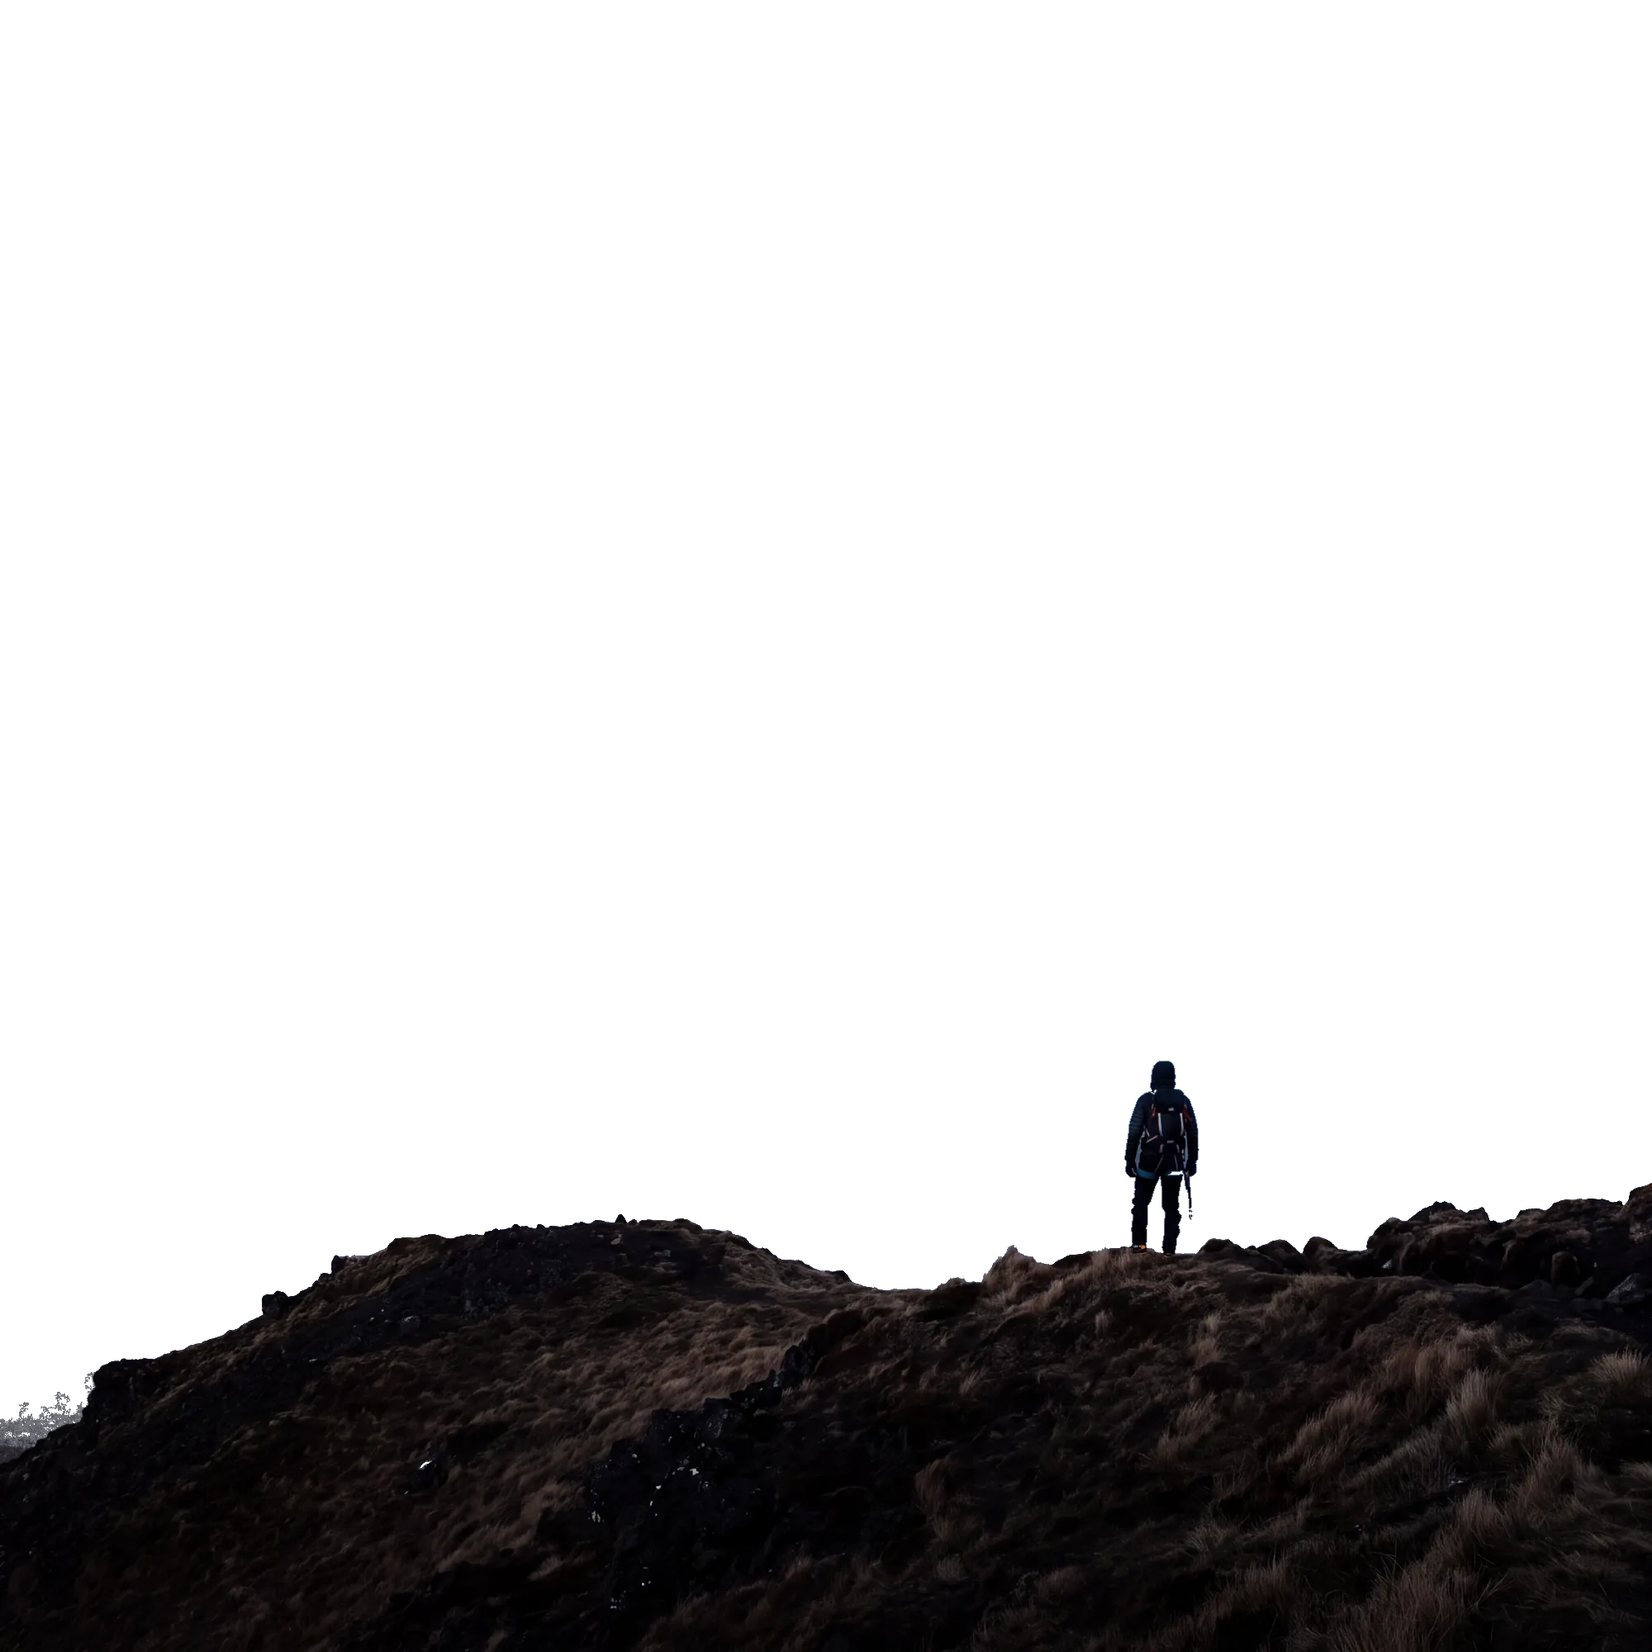
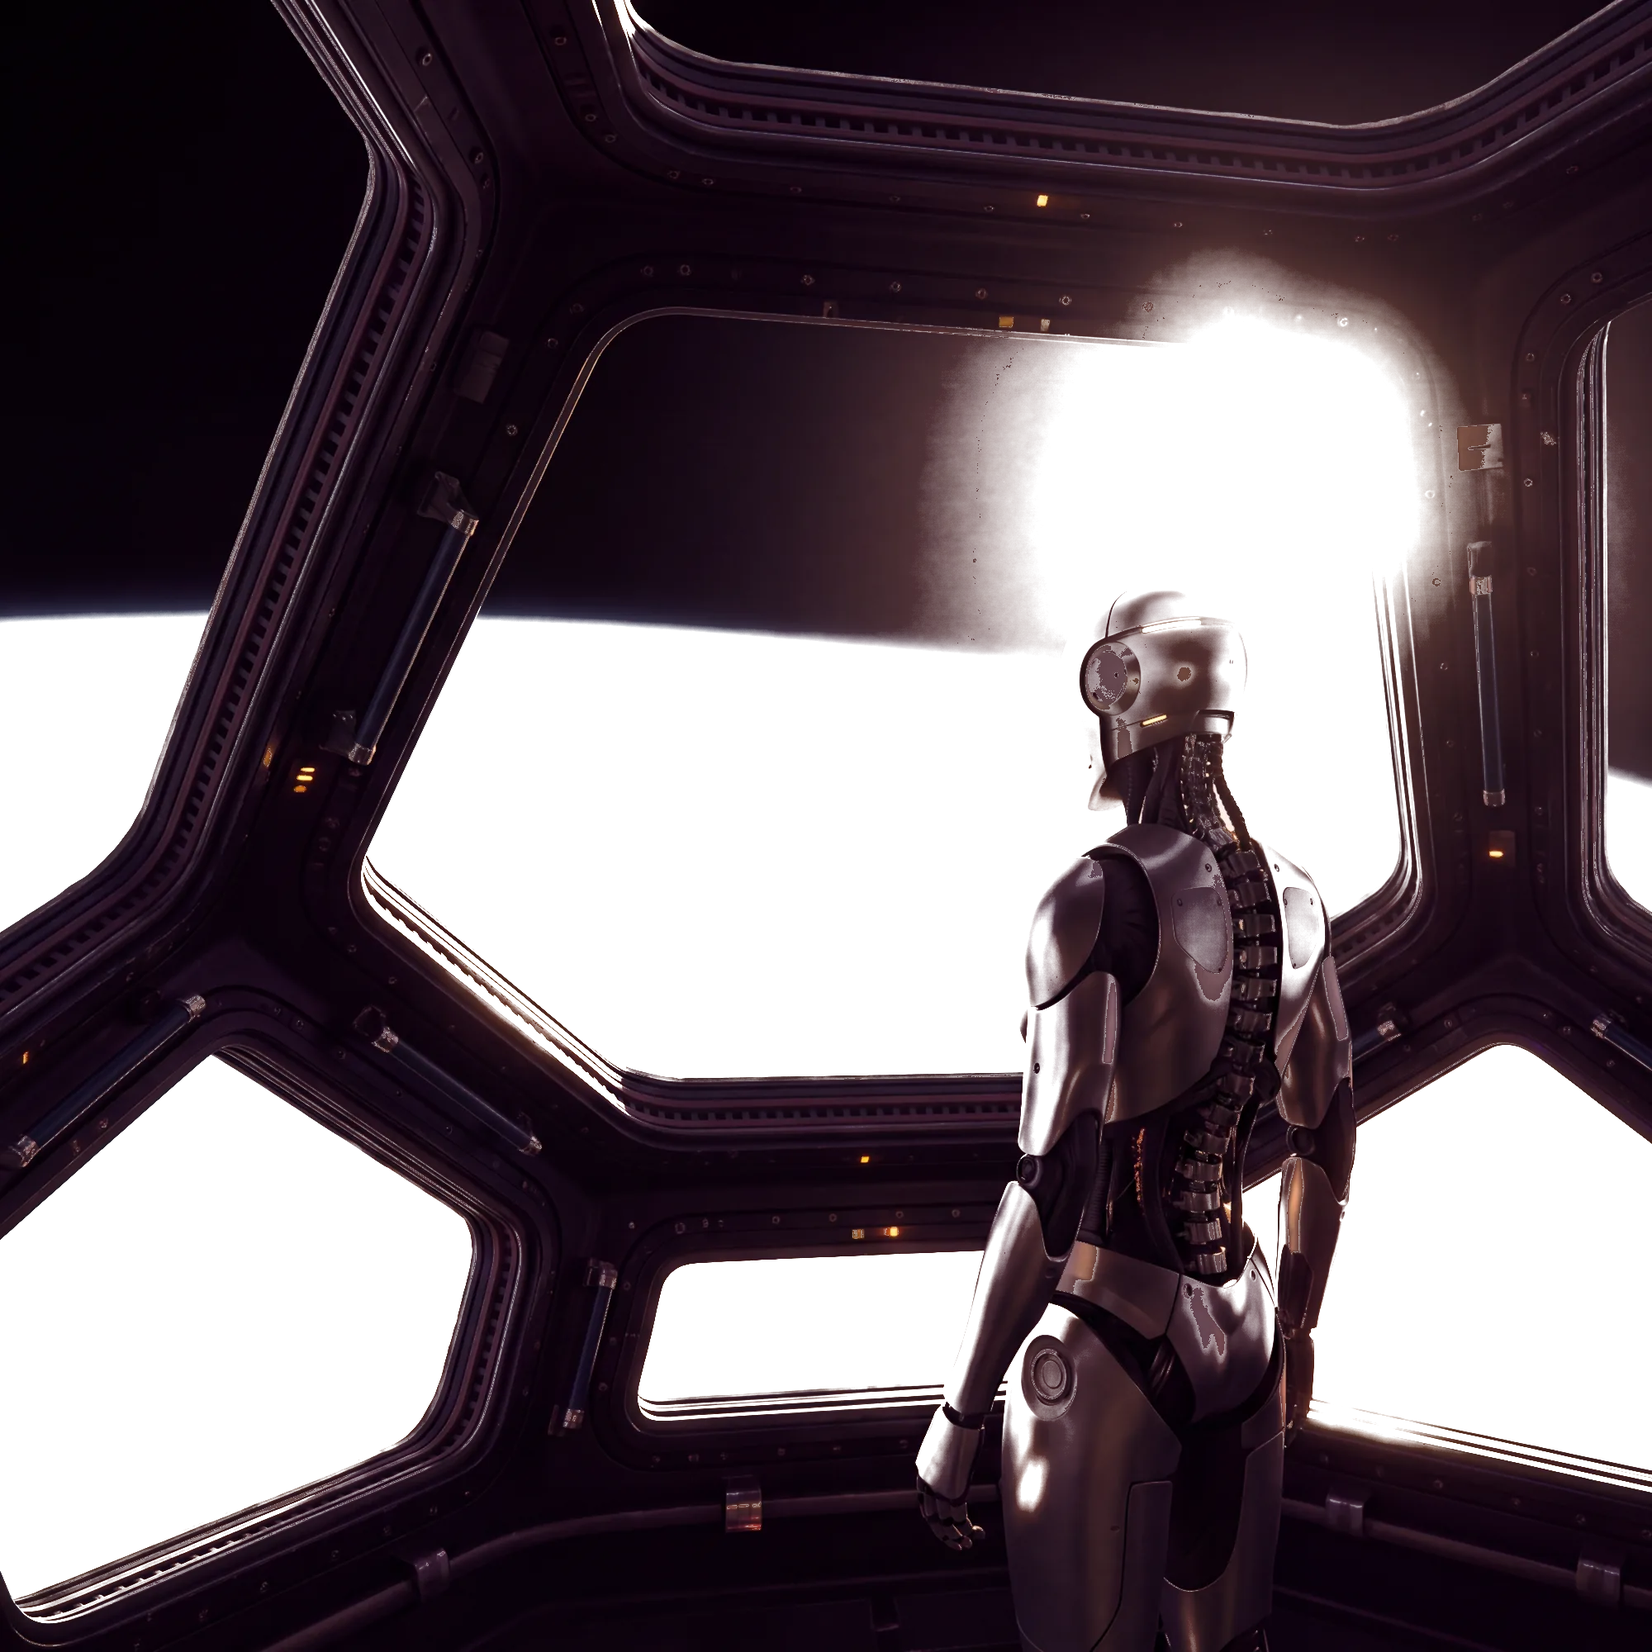
The hero is a cupola over the Gulf, and the line carries its own ground
The mountain's successor did not pass the team and the brief that came
back was that the hero has to read as AI on sight. This is that: a robot
at the glass of an orbital observation deck, the Palm and the coastline
on the limb below, one sun in the upper right window. Generated for this
page, 4096 square, served from our own origin at 528KB for the pair.

THE CUT IS ON PLAIN LUMINANCE AND THAT IS THE GIFT. Measured over the
frame: 61.4 per cent under 50, 8.5 per cent between 50 and 89, 30.1 per
cent over 90. Two modes with a valley between them, so one threshold
separates the structure from the view and the alpha ramps across 55 to
92. The mountain had no such line - snow, sky and haze overlapped there,
the cut had to be made on blue minus red, and the mid plane could not be
cut at all.

Black space stays with the near plate, because no rule separates it from
the frame and it costs nothing: black sliding over black is not visible.
Small holes are closed and large ones are not - rivets, seals, lamps and
the light on the robot's shoulder belong to the near plate, the windows
are the view - capped by area at 2600px, 1813 pockets, 32870 pixels.

THE SUN WAS MEASURED, NOT PLACED. Largest connected blob over luminance
240: 4,528 pixels in a 76 by 78 box, centroid (0.7662, 0.2929). The
mountain's was 1,733 pixels 22 across at (0.6653, 0.3041), so the hinge
has barely moved and the orbital chapter still enters on the pixel the
light is at.
[…]

diff --git a/src/components/hub/parallaxAssets.ts b/src/components/hub/parallaxAssets.ts
@@ -1,37 +1,57 @@
 /** The parallax layer artwork, in one place.
  *
- *  OURS NOW, AND ON OUR OWN ORIGIN. These were the demo photographs that ship
- *  with @osmosupply/parallax-scrolling, served from 21st.dev's CDN: not ours to
- *  serve, on somebody else's host, on a live page. They are replaced by art
- *  generated for this page and served from /public, which is the last thing
- *  that had to happen before this hero could be called finished.
+ *  OURS, AND ON OUR OWN ORIGIN. Generated for this page and served from
+ *  /public. The originals that shipped with the parallax component were
+ *  photographs on 21st.dev's CDN: not ours to serve, on somebody else's host,
+ *  on a live page.
  *
- *  TWO PLATES, AND THERE WERE THREE. The originals were back, mid and front,
- *  the mid carrying the mountain at its own rate between the sky and the near
- *  ground. A middle plate needs a matte cut along the mountain's own silhouette,
- *  and in this picture that boundary cannot be found by rule: the snow is
- *  bright and warm, the sky behind it is bright and neutral, and the haze below
- *  it is dark and blue, so every threshold that separates two of them merges the
- *  third. The nearest clean line runs almost horizontally at 0.51 of the frame,
- *  straight through the mountain, and a plate cut there would tear the mountain
- *  in half and slide the pieces against each other.
+ *  THE PICTURE IS A CUPOLA OVER THE GULF, and it replaced a mountain on
+ *  2026-09-11. The team would not take the mountain's successor, an airlock
+ *  film; the brief that came back was that the hero has to read as AI on sight.
+ *  So: a robot at the glass of an orbital observation deck, the Palm and the
+ *  coastline on the limb below, one sun in the upper right window. The
+ *  mountain is tagged `hero/mountain-ascent` and comes back in one checkout.
  *
- *  So the front plate is cut and the mountain stays with the sky. The spread is
- *  unchanged, 70 against 10, which is what the eye reads as depth; what is lost
- *  is one intermediate step. A proper mid matte wants a segmentation pass or ten
- *  minutes in Photoshop, and can be dropped in here without touching anything
- *  else.
+ *  THE CUT IS ON PLAIN LUMINANCE, AND THAT IS THE GIFT THIS PICTURE GIVES.
+ *  Measured over the frame: 61.4 per cent of it under luminance 50, 8.5 per
+ *  cent between 50 and 89, 30.1 per cent over 90. Two modes with a valley
+ *  between them - the structure and the black space are the first, the view
+ *  through the glass is the second - so one threshold separates them and the
+ *  alpha ramps across 55 to 92, which is the valley. The mountain had no such
+ *  line: snow, sky and haze all overlapped in luminance there, the cut had to
+ *  be made on blue minus red, and the middle plane could not be cut at all.
  *
- *  THE FRONT PLATE IS CUT ON BLUE MINUS RED, not on luminance. The near ground
- *  is lit tussock and dark rock, warm and mixed, and the haze behind it is
- *  uniformly blue: measured across the frame the ridge sits between -6 and +7
- *  and the haze between +25 and +78, which is a gap nothing else on that line
- *  falls into. The alpha ramps across 6 to 24 of that difference, so the
- *  silhouette is anti-aliased rather than stepped, and only the one connected
- *  region that reaches the bottom edge is kept, which is the ridge with the
- *  climber standing on it. */
+ *  BLACK SPACE STAYS WITH THE NEAR PLATE and that is not a mistake. Space is
+ *  as dark as the frame and no rule separates them, so the threshold takes
+ *  both. It costs nothing: the pixels are black, they are black in the far
+ *  plate too, and black sliding over black is not a thing anyone can see.
+ *
+ *  SMALL HOLES ARE CLOSED, LARGE ONES ARE NOT. Rivets, seal highlights, the
+ *  indicator lamps and the light catching the robot's shoulder all read as
+ *  view and all belong to the near plate; the windows read as view and are the
+ *  view. The fill is capped by area at 2600px, and the smallest window is far
+ *  larger than the largest of the others. 1813 pockets closed, 32870 pixels.
+ *
+ *  THE NEAR PLATE IS 66 PER CENT OF THE FRAME, which is the one hard
+ *  consequence. The mountain's was 24, so the opening line could sit behind it
+ *  and be occluded by the climber, which was the effect. Behind this one the
+ *  line does not paint at all - measured at 390x844, laid out at top 347 and
+ *  278 wide, at full opacity, with not a letter on screen. The line is over
+ *  the near plate now and carries its own ground instead. See hub/Ascent.
+ *
+ *  AND THE SPREAD IS 8, WHERE THE MOUNTAIN'S WAS 60. Two hills can slide a
+ *  long way past each other and still read as hills. A window cannot: the far
+ *  plate carries its own copy of the frame and the robot, so past about 160
+ *  plate pixels of travel the robot doubles and the openings collapse. It was
+ *  simulated at 0, 60, 160, 300 and 460 before a rate was chosen. 8 is also
+ *  what a window actually does - the view through it shifts a little as you
+ *  move, and the frame does not move at all, which is why the near plate is
+ *  now at 0. */
 export const BACK = "/hero/ascent-back.webp";
 export const FRONT = "/hero/ascent-front.webp";
 
-/** How every layer image is fitted. */
+export const CROP_X = 0.68;
+
 export const LAYER_IMG = "h-full w-full object-cover";
+/** The same bias, for the style attribute. */
+export const LAYER_POS = { objectPosition: `${(CROP_X * 100).toFixed(0)}% 50%` };

diff --git a/src/components/hub/OpeningLine.tsx b/src/components/hub/OpeningLine.tsx
@@ -250,19 +250,45 @@ export function OpeningLine() {
     <>
       <div
         ref={block}
-        className="pointer-events-none absolute inset-x-0 flex flex-col items-center justify-center px-6 text-center"
+        /* THE COPY SITS LEFT OF THE ROBOT ON A WIDE SCREEN, and that is the
+           picture's doing rather than a preference. The figure stands right of
+           centre and it is large: centred, the heading ran straight through it
+           and lost a letter of NEW HEIGHTS behind a shoulder. The line passing
+           behind the figure is the effect and was asked for, but a word the
+           reader cannot have is not an effect. Padding the right of the box
+           moving the box's right edge in moves the centre of the copy left
+           without moving the copy off centre within its own box, so the three
+           lines still balance on each other.
+
+           `right`, NOT PADDING AND NOT A TRANSFORM. Padding the box squeezed
+           the content instead of moving it: the heading carries max-w-[15ch]
+           and the sentence max-w-[42ch], so the first overflowed off the left
+           edge and the second collapsed to one word a line. A transform would
+           have worked and would have composed with the inline translateY the
+           hard way, because Tailwind v4 writes `translate` as its own property
+           rather than into `transform`. Moving the edge is the plain answer.
+
+           Below lg the picture is cropped to its middle and the figure is at
+           the edge of the frame, so there is nothing to move away from. */
+        className="pointer-events-none absolute inset-x-0 flex flex-col items-center justify-center px-6 text-center lg:right-[30vw]"
         style={{
           top: `${REST_Y * 100}%`,
           transform: "translateY(-50%)",
           willChange: "opacity",
         }}
       >
+        {/* Wider than it is tall and generous on both, because what it has to
+            cover is three lines of display type and the label over them, and a
+            wash that stops at the words has an edge. */}
+        <Wash w="128%" h="190%" alpha={0.66} />
         {/* The label goes as the line starts to travel: it belongs to the
             photograph, not to the sentence. It travels with the line rather than
             sitting in its own layer because laid out separately the two
             collided, and the label printed through the middle of the heading. */}
-        <Eyebrow innerRef={brow} />
-        <Line p={intro} fromRef={from} toRef={to} />
+        <span className="relative block">
+          <Eyebrow innerRef={brow} />
+          <Line p={intro} fromRef={from} toRef={to} />
+        </span>
       </div>
 
       {/* THE STANDFIRST IS ITS OWN LAYER, and that is not tidiness. The block
@@ -339,11 +365,43 @@ function Standfirst({ innerRef }: { innerRef?: React.RefObject<HTMLParagraphElem
          across the middle of all three lines. So this sits over him, at z-50,
          under the navbar at z-70. Depth is worth having on a sentence you read
          in one glance and not on one you read in three. */
-      className="font-grotesk pointer-events-none absolute inset-x-0 mx-auto max-w-[42ch] px-6 text-center text-[0.95rem] leading-[1.6] text-white/80 [text-shadow:0_2px_28px_rgba(0,0,0,0.85)]"
+      className="font-grotesk pointer-events-none absolute inset-x-0 mx-auto max-w-[42ch] px-6 text-center text-[0.95rem] leading-[1.6] text-white/80 [text-shadow:0_2px_28px_rgba(0,0,0,0.85)] lg:right-[30vw]"
       style={{ top: "66%", transform: "translateY(-50%)", willChange: "opacity" }}
     >
-      {ASCENT_STANDFIRST}
+      <Wash w="150%" h="320%" alpha={0.62} />
+      <span className="relative">{ASCENT_STANDFIRST}</span>
     </p>
+  );
+}
+
+/** A soft dark wash, sized to whatever it is put behind.
+ *
+ *  THE PICTURE UNDER THE TYPE IS NOT ONE TONE AND THAT IS THE PROBLEM. The
+ *  cupola is a dark frame with bright glass in it: measured across the rows the
+ *  heading sits on, the mean luminance is 129 and between a quarter and a third
+ *  of each row is near-black window frame. So a line of white type crosses the
+ *  boundary three or four times and its contrast changes with it, which reads
+ *  as striped rather than as lit. The drop shadow answers brightness; it cannot
+ *  answer a background that keeps changing.
+ *
+ *  So the type brings its own ground. Feathered to nothing at the edges, so it
+ *  is a deepening of the picture rather than a panel laid on it, and inside the
+ *  same element as the words so it fades on whatever ramp they fade on and
+ *  there is never a wash on an empty frame. */
+function Wash({ w, h, alpha }: { w: string; h: string; alpha: number }) {
+  return (
+    <span
+      aria-hidden
+      className="pointer-events-none absolute left-1/2 top-1/2"
+      style={{
+        width: w,
+        height: h,
+        /* One `translate`, written the way Tailwind v4 writes it. A utility and
+           an inline transform compose here rather than one winning. */
+        translate: "-50% -50%",
+        background: `radial-gradient(closest-side, rgba(6,8,12,${alpha}), rgba(6,8,12,${(alpha * 0.62).toFixed(2)}) 52%, rgba(6,8,12,0) 100%)`,
+      }}
+    />
   );
 }
 

diff --git a/src/components/hub/Ascent.tsx b/src/components/hub/Ascent.tsx
@@ -3,7 +3,7 @@
 import { useRef } from "react";
 import { ParallaxLayers } from "@/components/fx/ParallaxLayers";
 import { OpeningLine, OpeningStandfirst } from "@/components/hub/OpeningLine";
-import { BACK, FRONT, LAYER_IMG } from "@/components/hub/parallaxAssets";
+import { BACK, FRONT, LAYER_IMG, LAYER_POS } from "@/components/hub/parallaxAssets";
 import { SunBridge } from "@/components/hub/SunBridge";
 import { BACK_RATE } from "@/components/hub/sun";
 
@@ -53,7 +53,7 @@ export function Ascent() {
         className="h-screen w-full"
         stageClassName="bg-[#0b0f14]"
         layers={[
-          { y: BACK_RATE, children: <img src={BACK} alt="" aria-hidden loading="eager" className={LAYER_IMG} /> },
+          { y: BACK_RATE, children: <img src={BACK} alt="" aria-hidden loading="eager" className={LAYER_IMG} style={LAYER_POS} /> },
           // The sun's own light, at the sun's own rate, behind everything the
           // photograph puts in front of it.
           { y: BACK_RATE, children: <SunBridge frame={frame} /> },
@@ -75,16 +75,28 @@ export function Ascent() {
              line lags by 55, which is the rate it was already using. What is
              new is that the stack's ScrollTrigger writes it, on the frame it
              writes the mountain, so the two can no longer disagree. */
-          { y: LINE_RATE, children: <OpeningLine /> },
           {
-            y: 10,
+            y: 0,
             className: "hub-foreground",
-            children: <img src={FRONT} alt="" aria-hidden loading="eager" className={LAYER_IMG} />,
+            children: <img src={FRONT} alt="" aria-hidden loading="eager" className={LAYER_IMG} style={LAYER_POS} />,
           },
-          /* AND THE STANDFIRST OVER THE TOP OF IT, on the same rate so the two
-             travel together. The heading wants the man in front of it; a
-             paragraph with a shoulder through the middle is just words the
-             reader cannot have. */
+          /* THE LINE AND THE SENTENCE BOTH GO OVER THE NEAR PLATE NOW, and on
+             the mountain the line went under it. That was the effect and it
+             was asked for: the heading passed behind the climber, one
+             photograph deep rather than type laid on a picture.
+
+             THE CUPOLA CANNOT DO IT. The mountain's near plate was the bottom
+             quarter of the frame and the line sat at 0.46, clear above it.
+             This one is the window we are looking out of: 66 per cent of the
+             frame is opaque, mullions and sill and robot, and the line's own
+             rows are most of the way through it. Put under it the heading
+             simply did not paint - measured at 390x844, laid out at top 347
+             and 278 wide, at full opacity, and not a letter of it on screen.
+
+             So the depth is bought elsewhere. The line has its own ground now
+             (see Wash in hub/OpeningLine) and the picture keeps its structure
+             in front of the view rather than in front of the words. */
+          { y: LINE_RATE, children: <OpeningLine /> },
           { y: LINE_RATE, children: <OpeningStandfirst /> },
         ]}
       />

diff --git a/src/components/hub/sun.ts b/src/components/hub/sun.ts
@@ -1,3 +1,5 @@
+import { CROP_X } from "@/components/hub/parallaxAssets";
+
 /** The sun in the opening photograph, and where it lands on screen.
  *
  *  MEASURED, NOT EYEBALLED, AND MEASURED AGAIN FOR THE NEW ART. The plate is
@@ -17,15 +19,22 @@
  *  arrives have to agree on where it is, to the pixel. That agreement lives
  *  here rather than being written out twice. */
 
-/** Its centre, as a fraction of the image. */
-export const SUN = { x: 0.6653, y: 0.3041 };
+/** Its centre, as a fraction of the image.
+ *
+ *  MEASURED, NOT PLACED. Every pixel over luminance 240, then the largest
+ *  connected blob of those, which is the sun rather than the lit rim of a
+ *  window or a highlight on the robot: 4,528 pixels in a 76 by 78 box,
+ *  centroid at 0.7662 across and 0.2929 down. The mountain's was 1,733 pixels
+ *  22 across at 0.6653 and 0.3041, so the hinge has barely moved sideways; the
+ *  sun is softer and larger, which the glow only benefits from. */
+export const SUN = { x: 0.7662, y: 0.2929 };
 
 /** The image it was measured in. */
 export const SUN_IMAGE = { w: 2000, h: 2000 };
 
 /** How far the back layer travels, as a percentage of its own height, across
  *  the opener. The original component's furthest rate, and the sun's. */
-export const BACK_RATE = 70;
+export const BACK_RATE = 8;
 
 /** Where the sun lands, in pixels, in a `w` by `h` box showing the image under
  *  `object-fit: cover`. Cover scales to the larger ratio and centres the
@@ -36,8 +45,12 @@ export function sunInBox(w: number, h: number) {
   const scale = Math.max(w / SUN_IMAGE.w, h / SUN_IMAGE.h);
   const drawnW = SUN_IMAGE.w * scale;
   const drawnH = SUN_IMAGE.h * scale;
+  /* CROP_X, NOT A HALF. The plates are drawn with object-position biased right
+     so a phone keeps the sun; the overflow is therefore not centred, and this
+     has to use the same number the picture does or it will point the next
+     scene at a sun that is not there. See parallaxAssets. */
   return {
-    x: (w - drawnW) / 2 + SUN.x * drawnW,
+    x: (w - drawnW) * CROP_X + SUN.x * drawnW,
     y: (h - drawnH) / 2 + SUN.y * drawnH,
   };
 }
